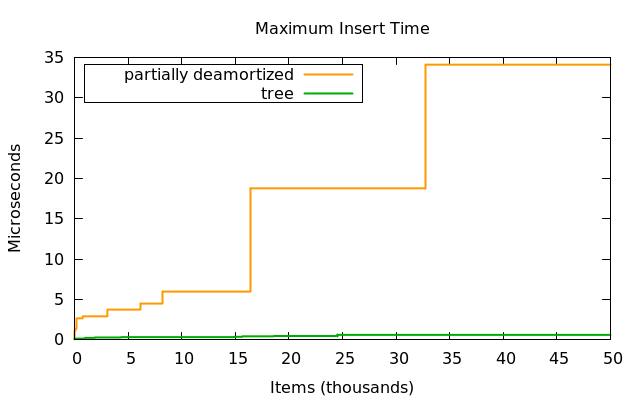
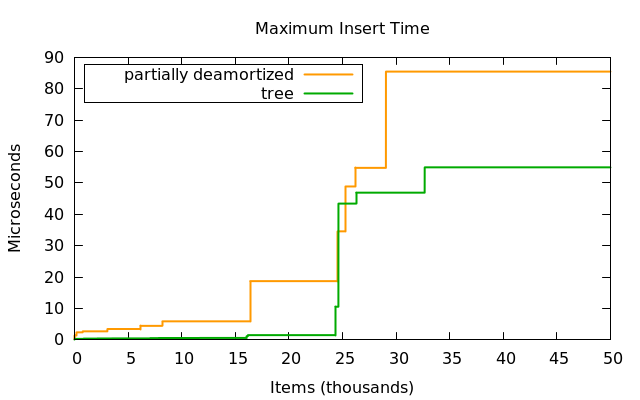
better implementation of tiered array, leading to major performance improvement

diff --git a/src/lazy-linear.cc b/src/lazy-linear.cc
@@ -225,19 +225,23 @@ struct TieredArray {
     }
     return ans;
   }
-  static vector<BasicArray<T> *> old_ones;
+  static vector<T *> old_ones;
 
   size_t shift;
-  BasicArray<BasicArray<T> *> data;
-  TieredArray(const size_t n) : shift(blog(n)), data(1ull << (shift/2), 0) {
-
+  T ** data;
+  TieredArray(const size_t n) 
+  : shift(blog(n)), 
+    data(reinterpret_cast<T**>(calloc(1ull << (shift/2), sizeof(T*)))) {
   }
   ~TieredArray() {
     for (size_t i = 0; i < (1ull << (shift/2)); ++i) {
-      old_ones.push_back(data.get(i));
+      old_ones.push_back(data[i]);
+      //data[i] = 0;
       //delete x;
       //x = 0;
     }
+    free(data);
+    //data = 0;
   }
   TieredArray(const TieredArray&) = delete;
   TieredArray& operator=(const TieredArray&) = delete;
@@ -250,32 +254,34 @@ struct TieredArray {
   }
   const T& get(const size_t& i) const {
     assert (upper(i) < (1ull << (shift/2)));
-    assert (0 != data.get(upper(i)));
-    return data.get(upper(i))->get(lower(i));
+    assert (0 != data[upper(i)]);
+    return data[upper(i)][lower(i)];
   }
   T& get(const size_t& i) {
     assert (upper(i) < (1ull << (shift/2)));
-    assert (0 != data.get(upper(i)));
-    return data.get(upper(i))->get(lower(i));
+    assert (0 != data[upper(i)]);
+    return data[upper(i)][lower(i)];
   }
   void set(const size_t& i, const T& x) {
-    if (0 == data.get(upper(i))) {
-      data.set(upper(i), new BasicArray<T>(1ull << ((shift+1)/2)));
+    assert (reinterpret_cast<T*>(0x21) != data[upper(i)]);
+    if (0 == data[upper(i)]) {
+      data[upper(i)] = reinterpret_cast<T*>(malloc(sizeof(T) * (1ull << ((shift+1)/2))));
+      //cerr << data[upper(i)] << endl;
     }
-    data.get(upper(i))->set(lower(i),x);
+    data[upper(i)][lower(i)] = x;
     if (not old_ones.empty()) {
-      delete old_ones.back();
+      free(old_ones.back());
       old_ones.pop_back();
     }
   }
   void swap(TieredArray * that) {
     std::swap(shift, that->shift);
-    data.swap(&that->data);
+    std::swap(data, that->data);
   }
 };
 
 template<typename T>
-vector<BasicArray<T> *> TieredArray<T>::old_ones = vector<BasicArray<T> *>(0);
+vector<T *> TieredArray<T>::old_ones = vector<T *>();
 
 
 
